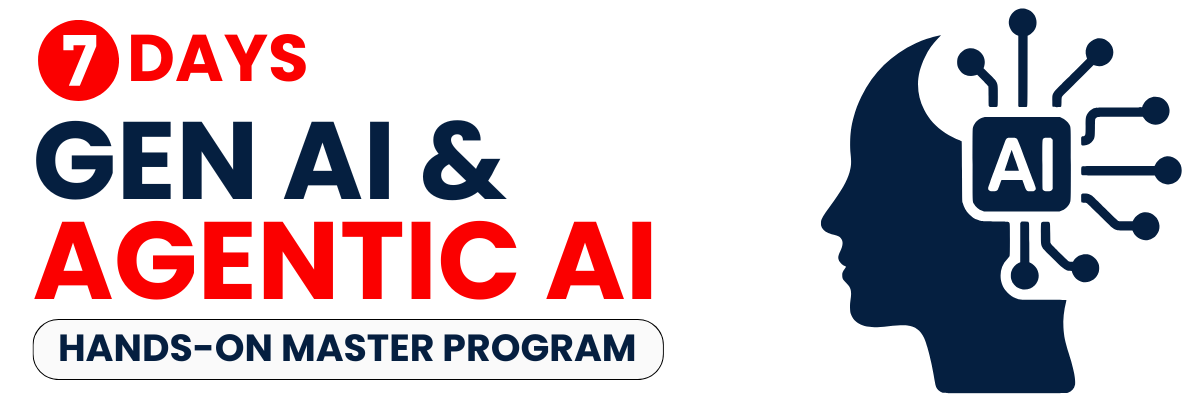
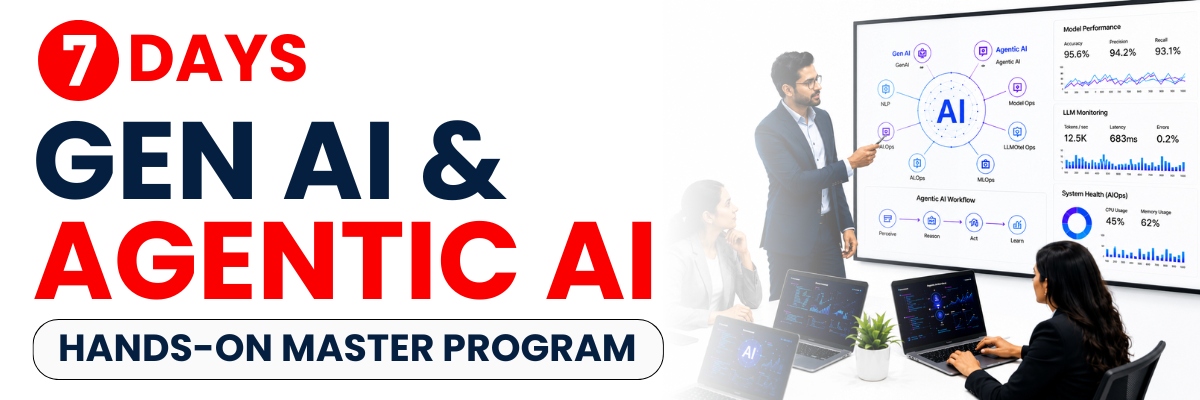
pushed new poster done

Changed region(s): [[0.5858, 0.0, 1.0, 1.0], [0.7092, 0.93, 0.74, 0.96]]

diff --git a/src/components/AnimatedHeroGraphic.tsx b/src/components/AnimatedHeroGraphic.tsx
@@ -1,13 +1,7 @@
 import React, { useState, useEffect, useRef } from 'react';
 
 const slideshowImages = [
-  '/hero-stories/poster-2.png',
-  '/hero-stories/poster-3.png',
-  '/hero-stories/poster-4.png',
-  '/hero-stories/poster-5.png',
-  '/hero-stories/poster-6.png',
-  '/hero-stories/poster-7.png',
-  '/hero-stories/poster-8.png',
+  '/hero-stories/career-gap.png',
 ];
 
 const SLIDE_DURATION = 2000; // 2.0 seconds per slide (speeded up)
